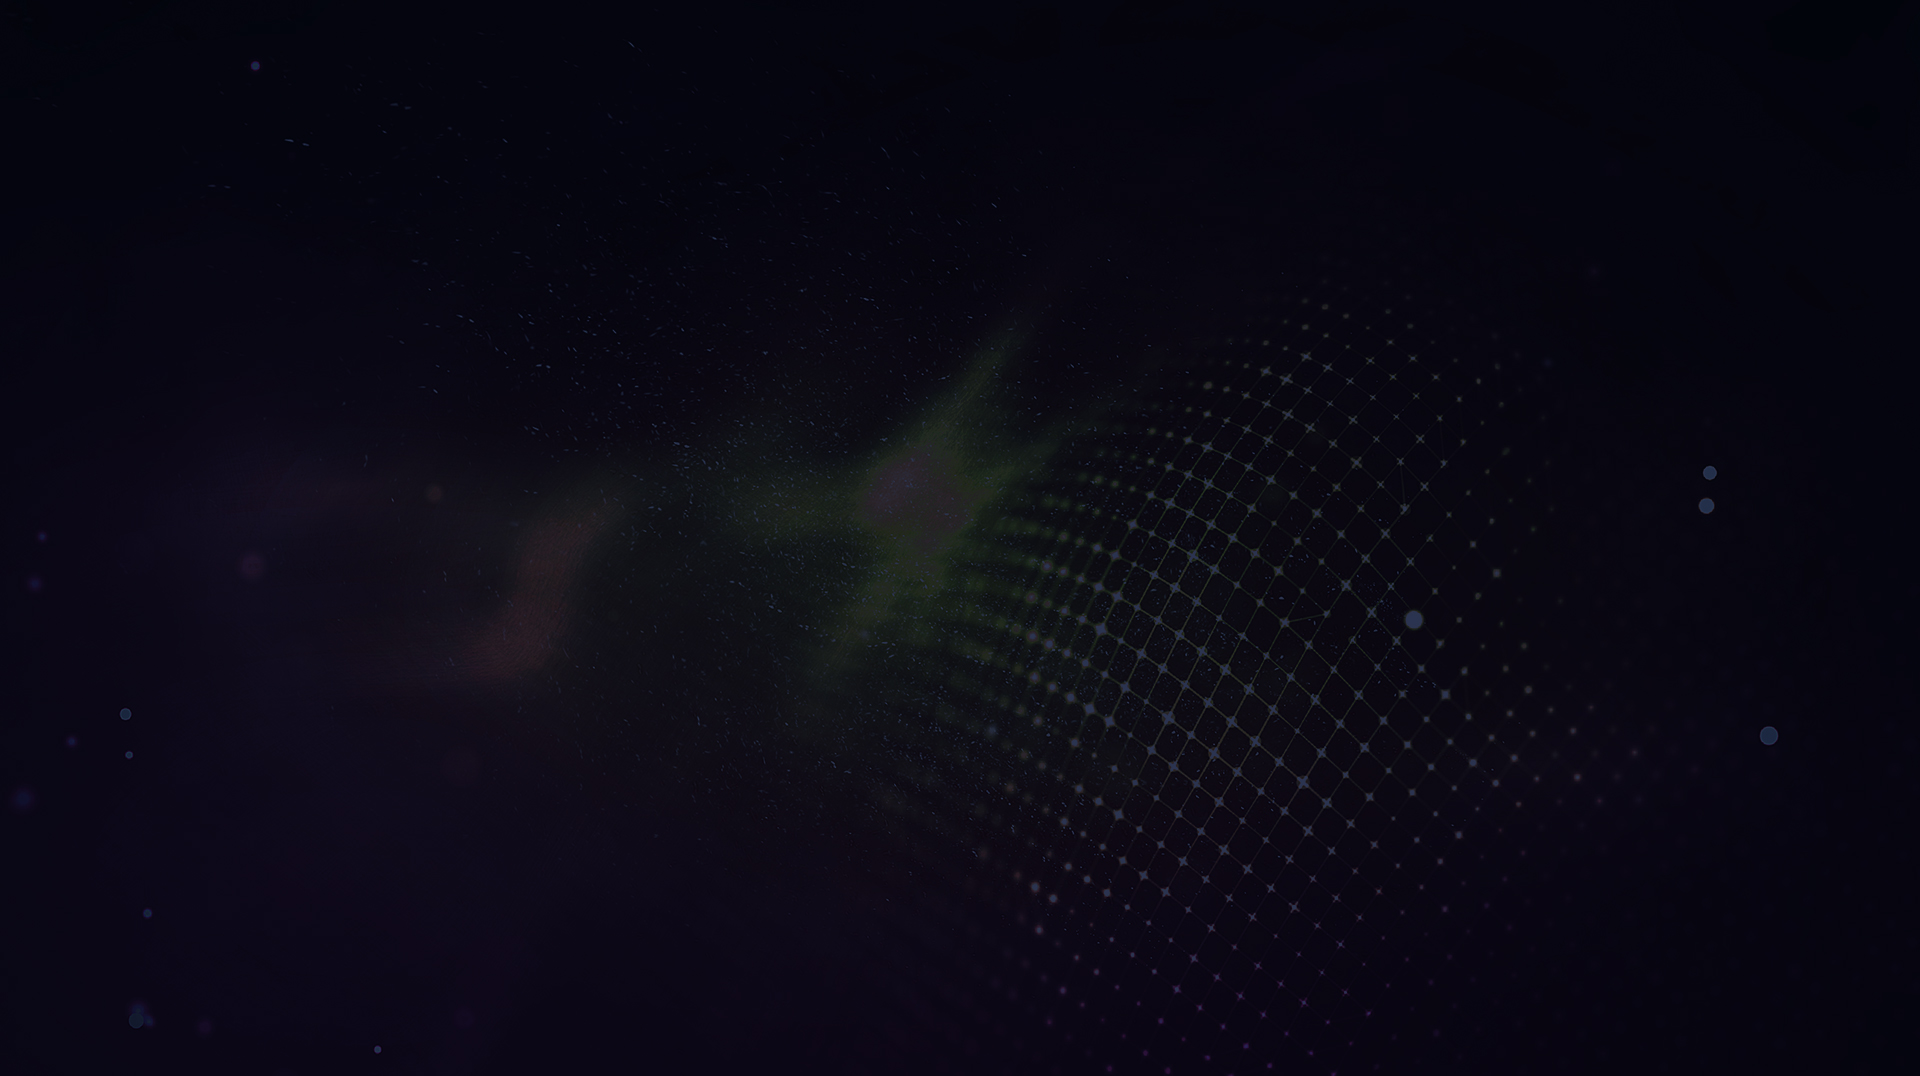
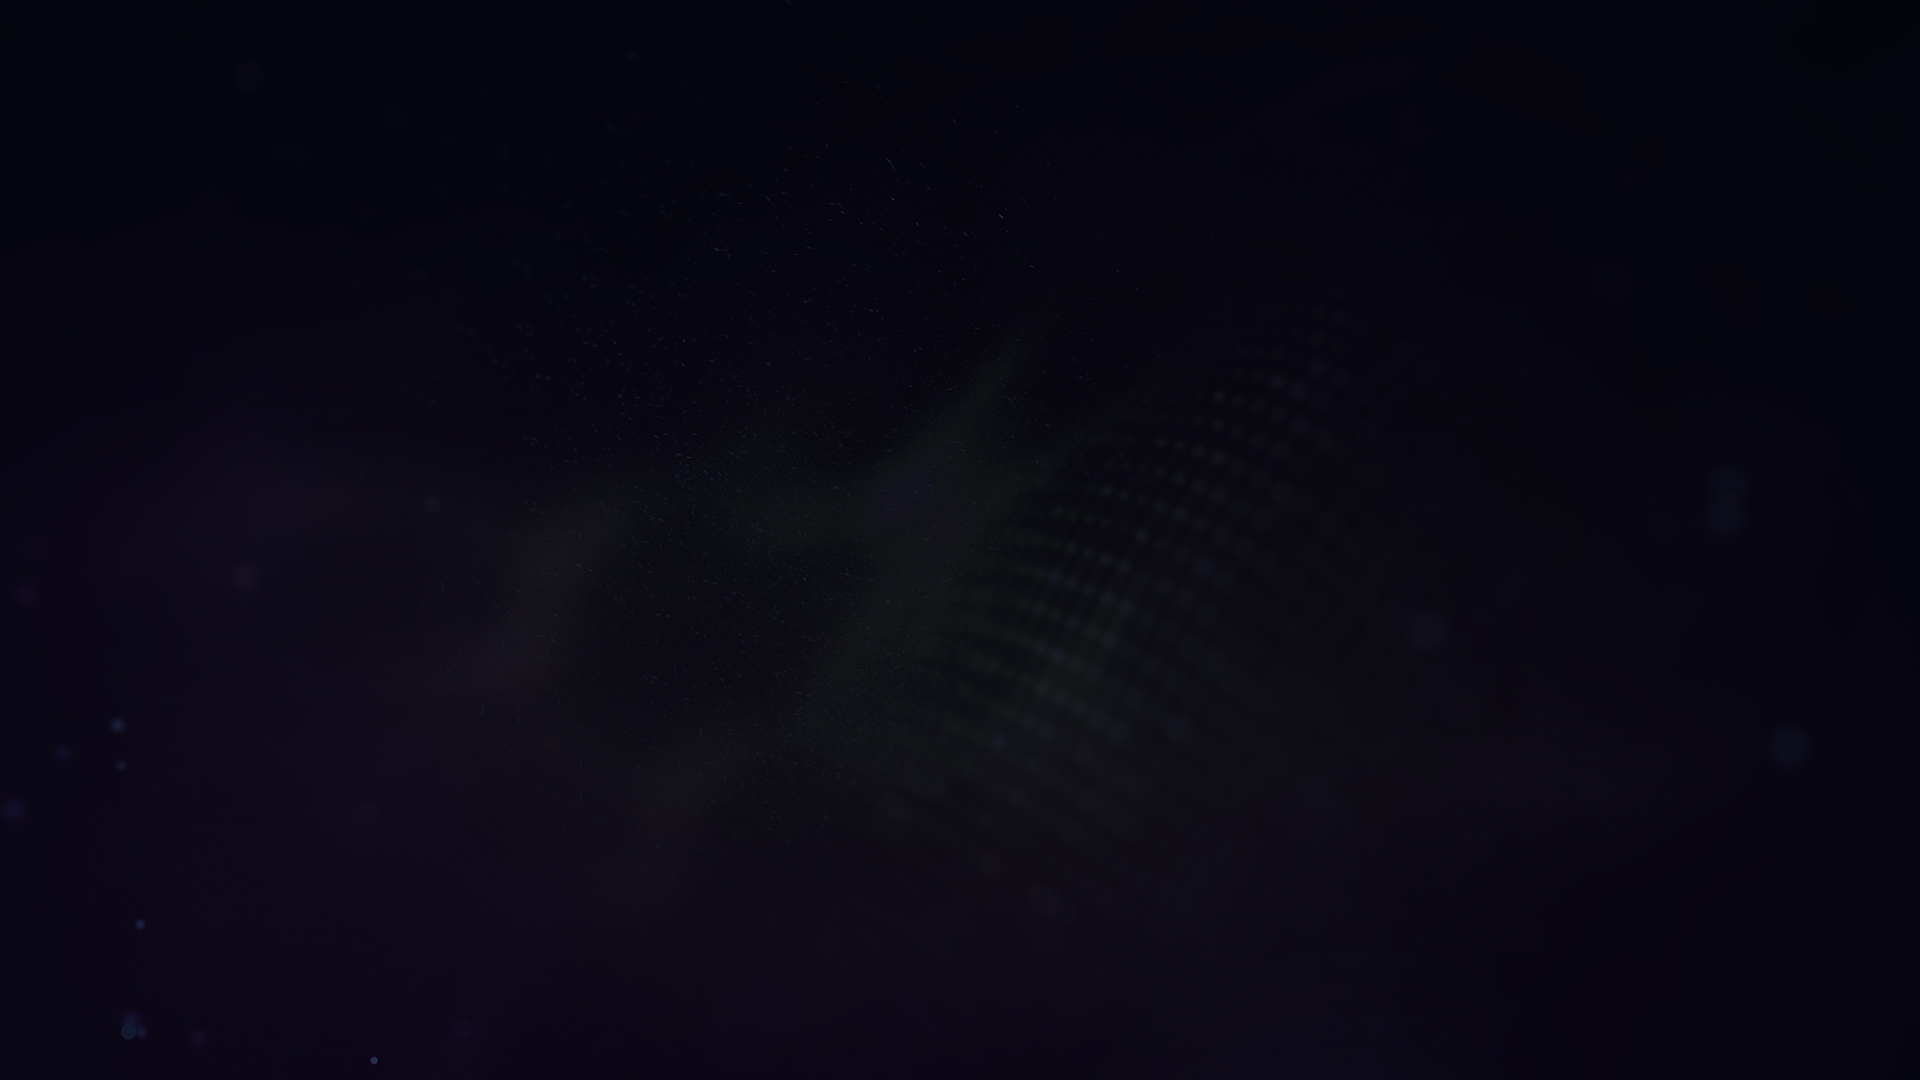
v7

diff --git a/src/components/FarmTicker/style.css b/src/components/FarmTicker/style.css
@@ -17,15 +17,23 @@ footer > div {
 
 footer div span {
   padding: 0.5rem 1rem;
-  background-color: rgba(0, 0, 0, 0.9);
+  text-align: center;
+  background-color: rgb(12 9 22 / 70%);
+  -webkit-backdrop-filter: blur(2px);
+  backdrop-filter: blur(2px);
   box-shadow: 0 0.2rem 0.6rem -0.2rem #000;
   border: 1px solid #333;
-  border-radius: 0.4rem;
+  border-radius: 0.3rem;
   font-size: 0.8rem;
   letter-spacing: 1px;
-  animation: float 2.4s ease-in-out infinite alternate;
+  /* animation: float 2.4s ease-in-out infinite alternate; */
   text-shadow: 2px 1px black;
+  min-width: clamp(5rem, 30vw, 7rem);
   flex: 1 1;
+  display: flex;
+  justify-content: center;
+  flex-direction: column;
+  align-items: center;
 }
 footer div span b {
   color: var(--c2);
@@ -35,10 +43,10 @@ footer div span:nth-child(1) {
   animation-delay: 0s;
 }
 footer div span:nth-child(2) {
-  animation-delay: 1.2s;
+  animation-delay: 0.9s;
 }
 footer div span:nth-child(3) {
-  animation-delay: 0.3s;
+  animation-delay: 0.5s;
 }
 footer div span:nth-child(4) {
   animation-delay: 0.6s;
@@ -50,14 +58,14 @@ footer div span:nth-child(6) {
   animation-delay: 0.9s;
 }
 
-@keyframes float {
+/* @keyframes float {
   0% {
     transform: translate(0rem, 0rem);
   }
   100% {
     transform: translate(0.1rem, -0.4rem);
   }
-}
+} */
 
 @media (orientation: landscape) and (min-width: 900px) {
   footer {
@@ -74,26 +82,15 @@ footer div span:nth-child(6) {
     white-space: nowrap;
     text-align: center;
     flex: 0;
-  }
-
-  @keyframes move_ticker {
-    0% {
-      transform: translateX(100%);
-    }
-    100% {
-      transform: translateX(-100%);
-    }
+    min-width: unset;
+    display: initial;
   }
 
   footer > div {
-    animation: move_ticker 90s linear infinite;
-    flex-flow: row;
-    animation-fill-mode: forwards;
+    /* animation: move_ticker 90s linear infinite; */
+    flex-flow: row wrap-reverse;
     display: inline-flex;
     width: 100vw;
-  }
-  footer > div:hover {
-    animation-play-state: paused;
   }
 }
 

diff --git a/src/components/Stake/index.jsx b/src/components/Stake/index.jsx
@@ -5,22 +5,32 @@ import StakeColumn from "../StakeColumn";
 const Stake = () => {
   
   return (
-    <section>
-        <h2><b>Stake:</b> Lock ATOM to receive LWAVE token. The longer you lock, the more LWAVE you will receive.</h2>
+    <>
+      <section>
+          <h2><b>Stake:</b> Lock ATOM to receive LWAVE token. The longer you lock, the more LWAVE you will receive.</h2>
 
-      <article className="wide_article">
-        <div className="info_columns stake_columns">
-          <div className="col1">Stake</div>
-          <div className="col2">TVL</div>
-          <div className="col3">Rewards</div>
-          <div className="col4">APR</div>
-        </div>
+        <article className="wide_article">
+          <div className="info_columns stake_columns">
+            <div className="col1">Stake</div>
+            <div className="col2">TVL</div>
+            <div className="col3">Rewards</div>
+            <div className="col4">APR</div>
+          </div>
 
-        {
-          data.map((item) => (<StakeColumn key={item.ID} token1={item.token1} token2={item.token2} apr={423}/>))
-        }
-      </article>
-    </section>
+          {
+            data.map((item) => (<StakeColumn key={item.ID} token1={item.token1} token2={item.token2} apr={423}/>))
+          }
+        </article>
+      </section>
+    
+      <footer>
+          <div>
+              <span>TOTAL ATOM LOCKED: <b>947.283</b></span>
+              <span>TOTAL LWAVE MINTED: <b>193.457</b></span>
+              <span>TOTAL LWAVE STAKED: <b>294.323</b></span>
+          </div>
+      </footer>
+    </>
   );
 };
 

diff --git a/src/components/Farm/index.jsx b/src/components/Farm/index.jsx
@@ -4,11 +4,14 @@ import LiquidityColumns from "../LiquidityColumns";
 
 import data from "../../assets/JSON/liquidities.json";
 
+import FarmTicker from "../FarmTicker";
+
 const Farm = () => {
   console.log(data[0].token1)
   return (
+    <>
     <section>
-        <h2><b>Farms: </b>Stake liquidity pool tokens to earn rewards in LWAVE.</h2>
+        <h2><b>Farm: </b>Stake liquidity pool tokens to earn rewards in LWAVE.</h2>
 
       <article className="wide_article">
         <div className="info_columns farm_columns">
@@ -24,6 +27,12 @@ const Farm = () => {
         </div>
       </article>
     </section>
+
+    <FarmTicker/>
+    
+    </>
+
+
   );
 };
 

diff --git a/src/components/FarmTicker/index.jsx b/src/components/FarmTicker/index.jsx
@@ -1,18 +1,15 @@
 import "./style.css";
 
-const Ticker = () => {
+const FarmTicker = () => {
     return(
         <footer>
             <div>
                 <span>TVL <b>$58.391.058</b></span>
                 <span>FARMS TVL <b>$54.132.112</b></span>
                 <span>YOUR HOLDINGS <b>$0.0</b></span>
-                <span>TOTAL ATOM LOCKED: <b>947.283</b></span>
-                <span>TOTAL LWAVE MINTED: <b>193.457</b></span>
-                <span>TOTAL LWAVE STAKED: <b>294.323</b></span>
             </div>
         </footer>
     ) 
 }
 
-export default Ticker;
+export default FarmTicker;

diff --git a/src/components/BackgroundImage/style.css b/src/components/BackgroundImage/style.css
@@ -5,7 +5,7 @@
   background-size: cover;
   background-position: center;
   animation: hueRotate 45s linear infinite,
-    scaleBg 10s ease-in-out infinite alternate-reverse;
+    scaleBg 15s ease-in-out infinite alternate-reverse;
   z-index: -1;
 }
 
@@ -20,9 +20,9 @@
 
 @keyframes scaleBg {
   0% {
-    transform: scale(1) rotate(0deg);
+    transform: scale(1);
   }
   100% {
-    transform: scale(1.1) rotate(3deg);
+    transform: scale(1.1);
   }
 }

diff --git a/src/components/Pool/index.jsx b/src/components/Pool/index.jsx
@@ -1,8 +1,10 @@
 import "./style.css"
 import ConnectWalletBt from "../ConnectWallletBt";
+import FarmTicker from "../FarmTicker";
 
 const Pool = () => {
   return (
+    <>
     <section>
         <article className="pool_article">
           <p className="inner_title">My Liquidity Positions</p>
@@ -10,6 +12,9 @@ const Pool = () => {
           <ConnectWalletBt fullWidth/>
         </article>
     </section>
+
+    <FarmTicker/>
+    </>
   );
 };
 

diff --git a/src/App.js b/src/App.js
@@ -6,7 +6,6 @@ import Swap from './components/Swap'
 import Pool from './components/Pool'
 import Farm from './components/Farm'
 import Stake from './components/Stake'
-import Ticker from "./components/Ticker";
 
 function RouteWrapped() {
   return (
@@ -14,7 +13,6 @@ function RouteWrapped() {
       <BackgroundImg />
       <Header />
       <Outlet />
-      <Ticker />
     </div>
   )
 }

diff --git a/src/components/ConnectWallletBt/style.css b/src/components/ConnectWallletBt/style.css
@@ -22,7 +22,7 @@
 .button::before {
   content: "";
   position: absolute;
-  inset: -1.5px;
+  inset: -0.1rem;
   background-image: linear-gradient(30deg, var(--c2), var(--c3), var(--c4));
   background-color: var(--c1);
   z-index: -1;
